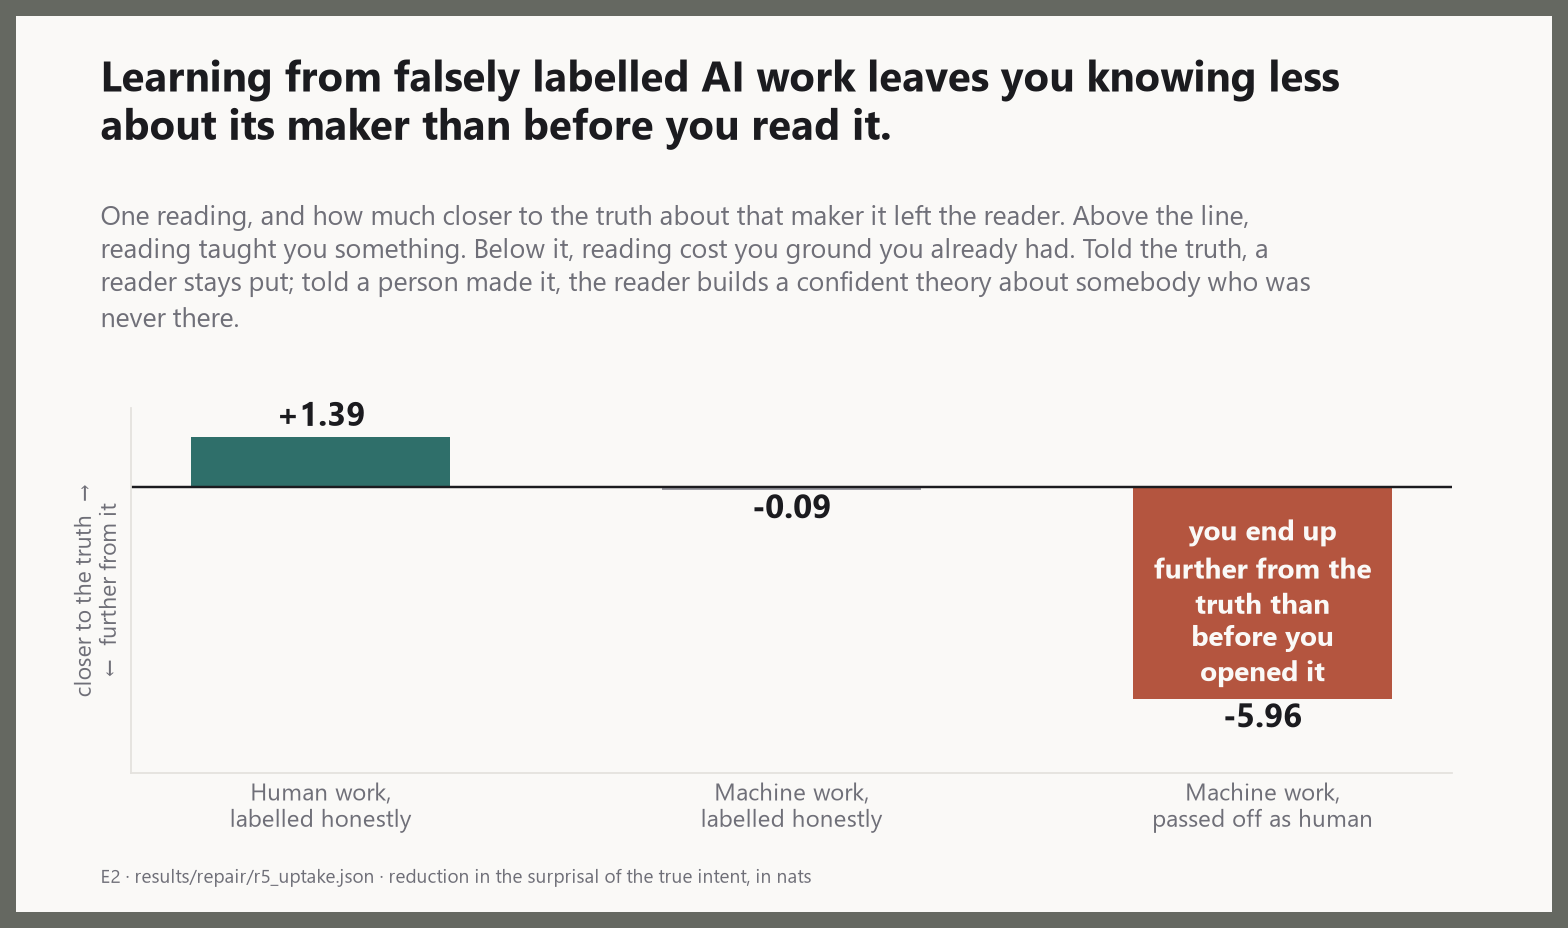
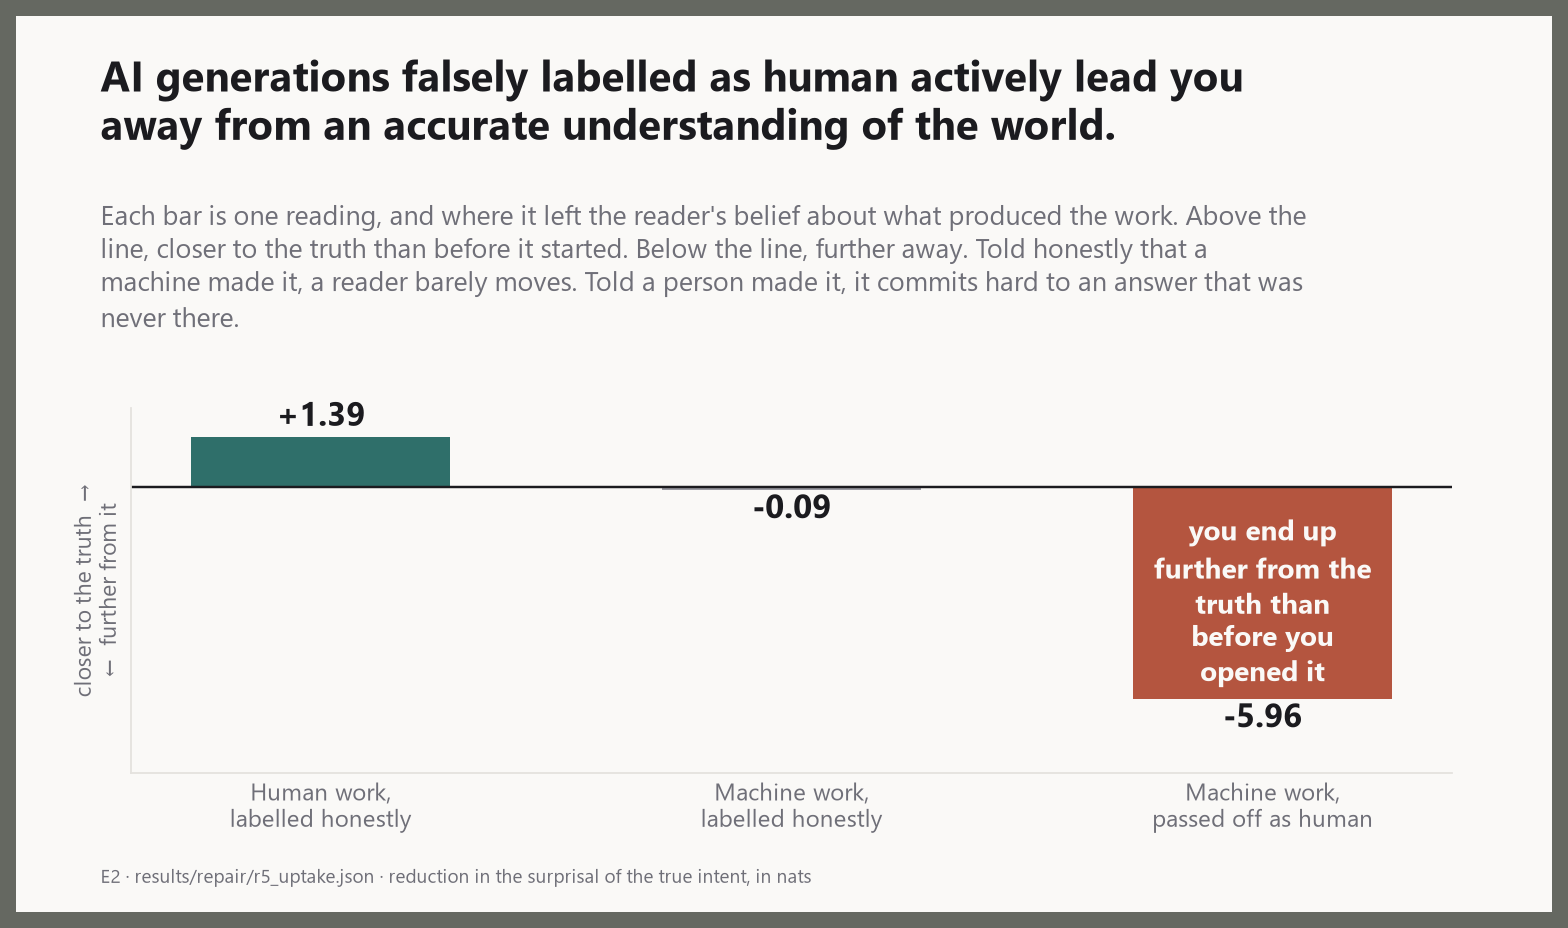
Plate 1 takes the author's title, and it dodges the objection mine invited
"Leaves you knowing less about its maker" was subtly wrong and would have drawn
the first objection anyone makes: there IS no maker in a machine generation, so
how can a reader be further from one? The model does carry a nominal goal for a
ghost artifact, but its features are pure synth and encode nothing about it, so
talking about the maker's intent there is asking the plate to defend a claim it
does not need.

The author's framing never invokes a maker. It says the reading leaves the
reader's picture of the world less accurate, which is exactly what the sign
means.

Checked before applying, and "actively" is earned rather than decorative. Told
honestly that a machine made it, the reader barely moves: -0.09. Told a person
made it, it moves 66 times further, and the sign is NEGATIVE, so it is movement
AWAY from the truth rather than a failure to learn. That distinction is the
whole finding and the word carries it.

Subtitle rewritten to scope what is measured: one reading, and where it leaves
the reader's belief about what produced the work.

243 tests passing.

Changed region(s): [[0.0625, 0.2188, 0.8438, 0.3125], [0.0625, 0.0625, 0.875, 0.1562]]

diff --git a/scripts/make_walkthrough_plates.py b/scripts/make_walkthrough_plates.py
@@ -50,11 +50,12 @@ def plate_01_false_label():
     vals = [float(p[1]["error_reduction"]) for p in picks]
 
     fig, ax = plate(
-        "Learning from falsely labelled AI work leaves you knowing less\nabout its maker than before you read it.",
-        "One reading, and how much closer to the truth about that maker it left the reader. Above "
-        "the line, reading taught you something. Below it, reading cost you ground you already "
-        "had. Told the truth, a reader stays put; told a person made it, the reader builds a "
-        "confident theory about somebody who was never there.",
+        "AI generations falsely labelled as human actively lead you away from an accurate "
+        "understanding of the world.",
+        "Each bar is one reading, and where it left the reader's belief about what produced the "
+        "work. Above the line, closer to the truth than before it started. Below the line, further "
+        "away. Told honestly that a machine made it, a reader barely moves. Told a person made it, "
+        "it commits hard to an answer that was never there.",
         "E2 · results/repair/r5_uptake.json · reduction in the surprisal of the true intent, in nats",
         authored=True)
     bars = ax.bar([p[0] for p in picks], vals, color=[p[2] for p in picks], width=0.55)
